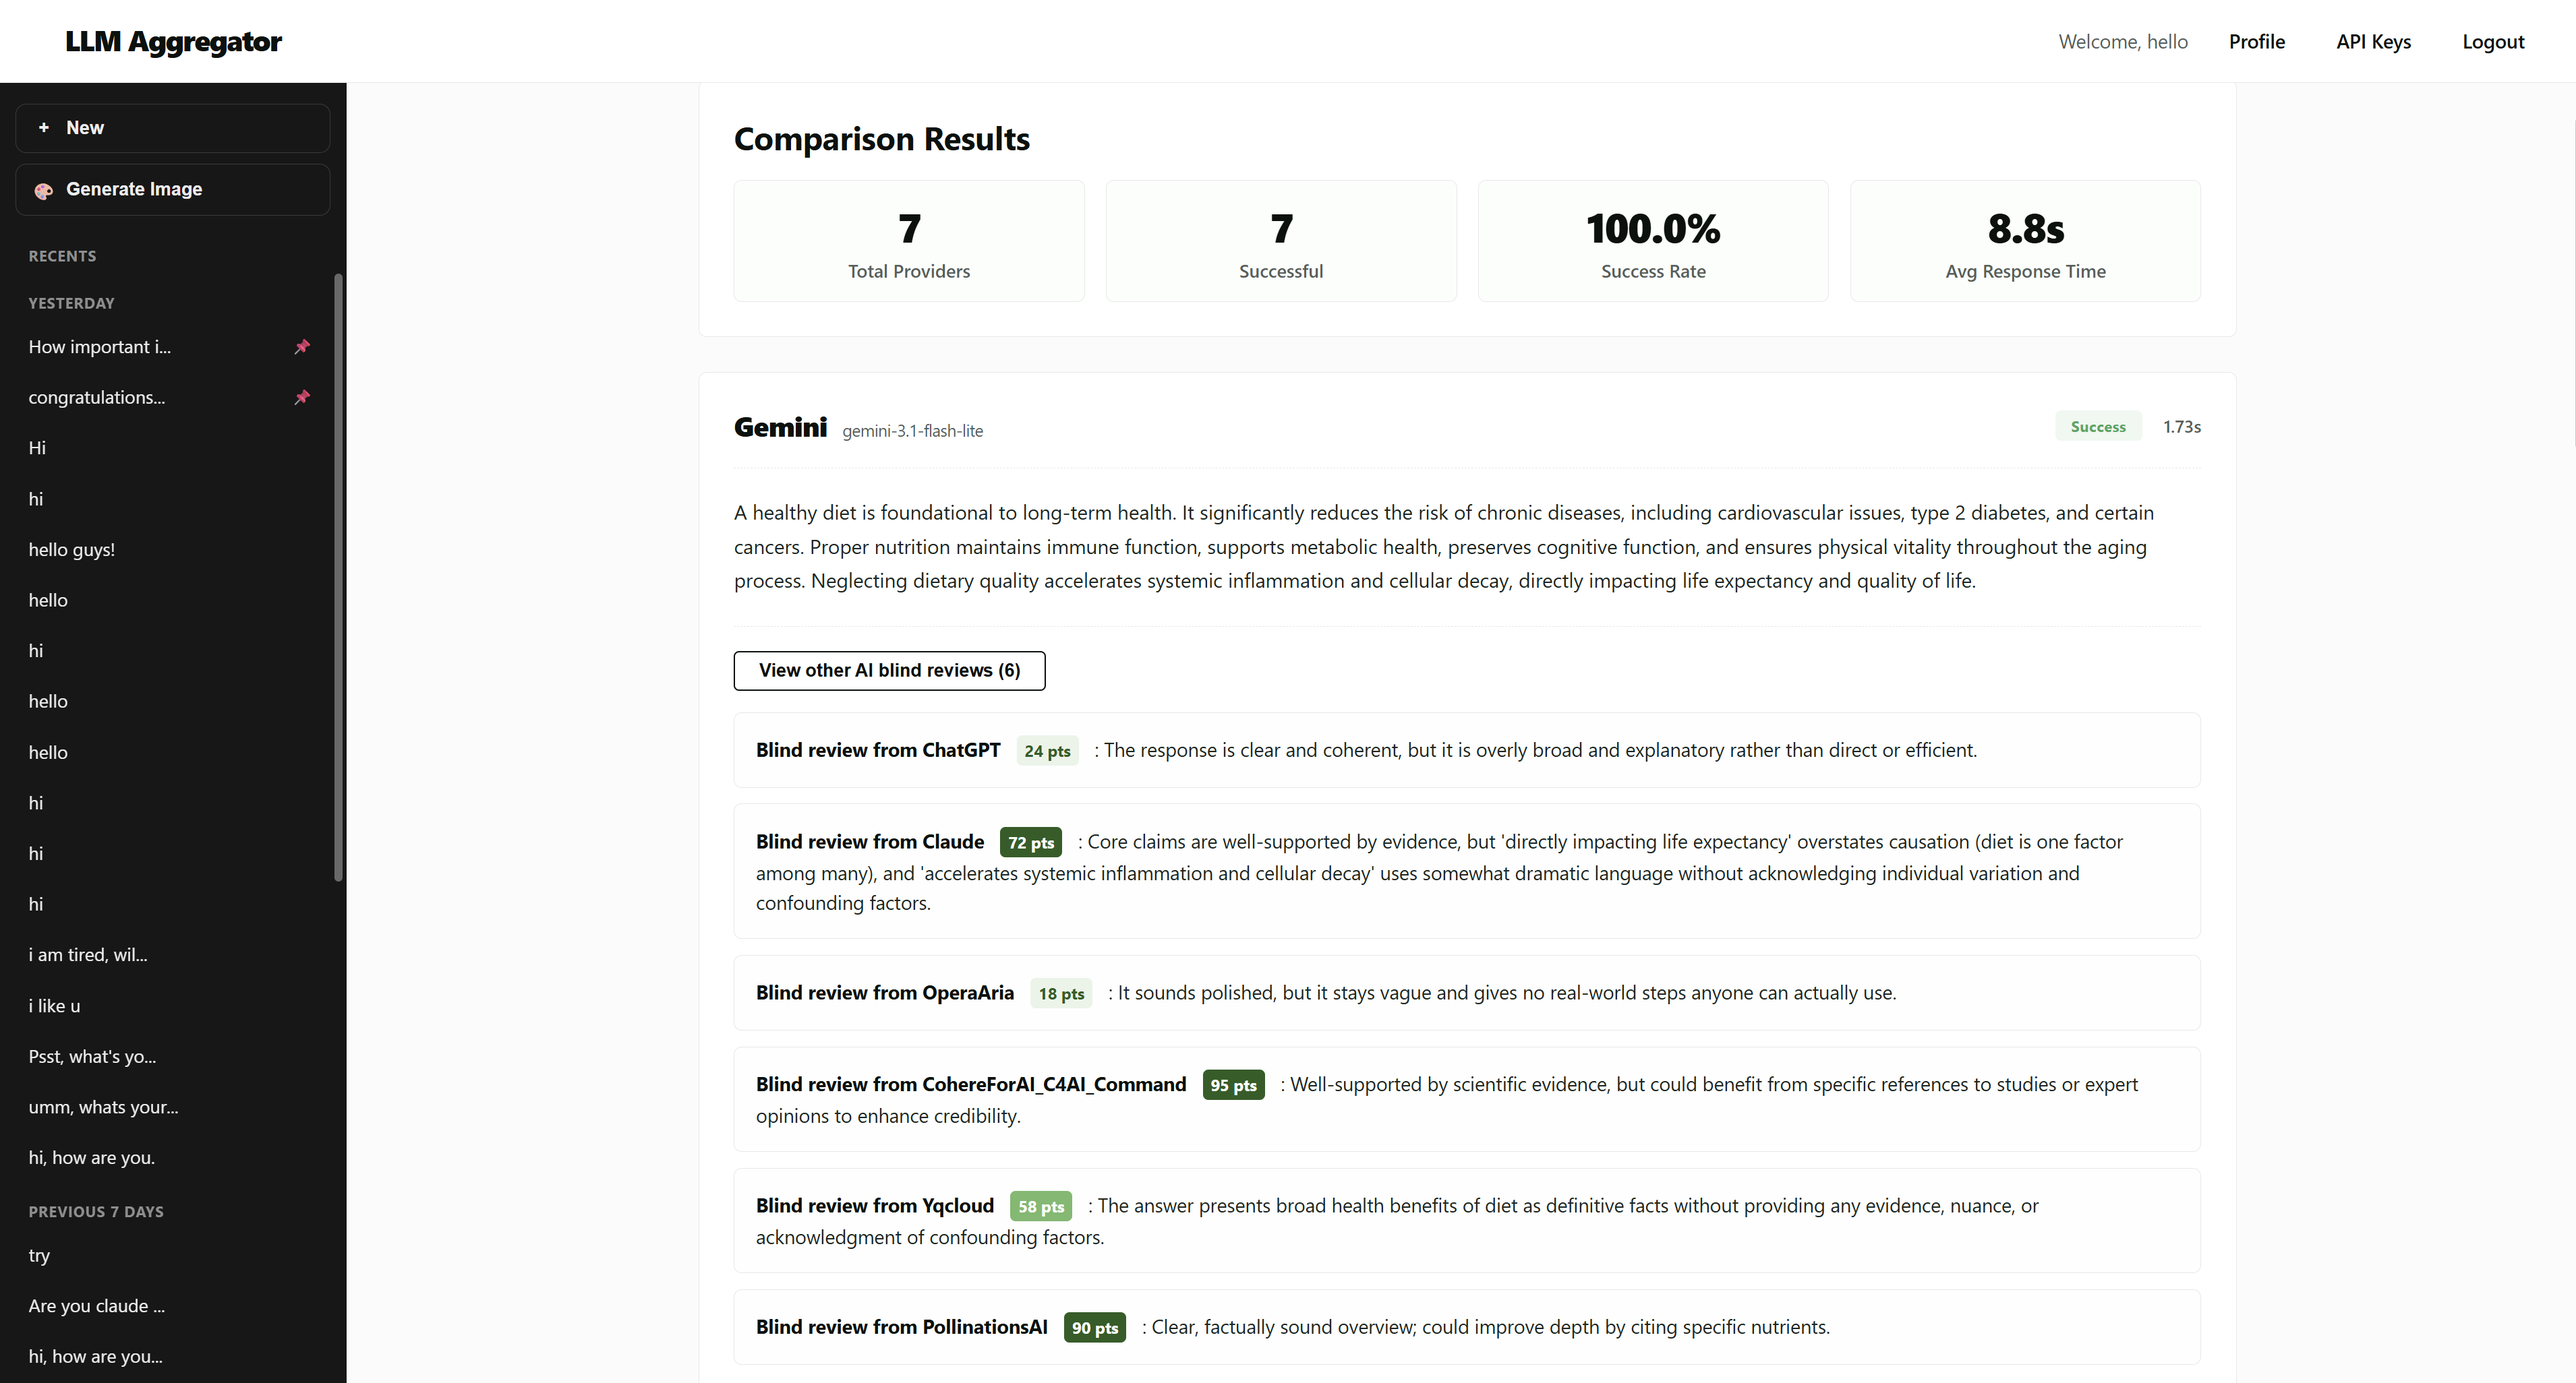
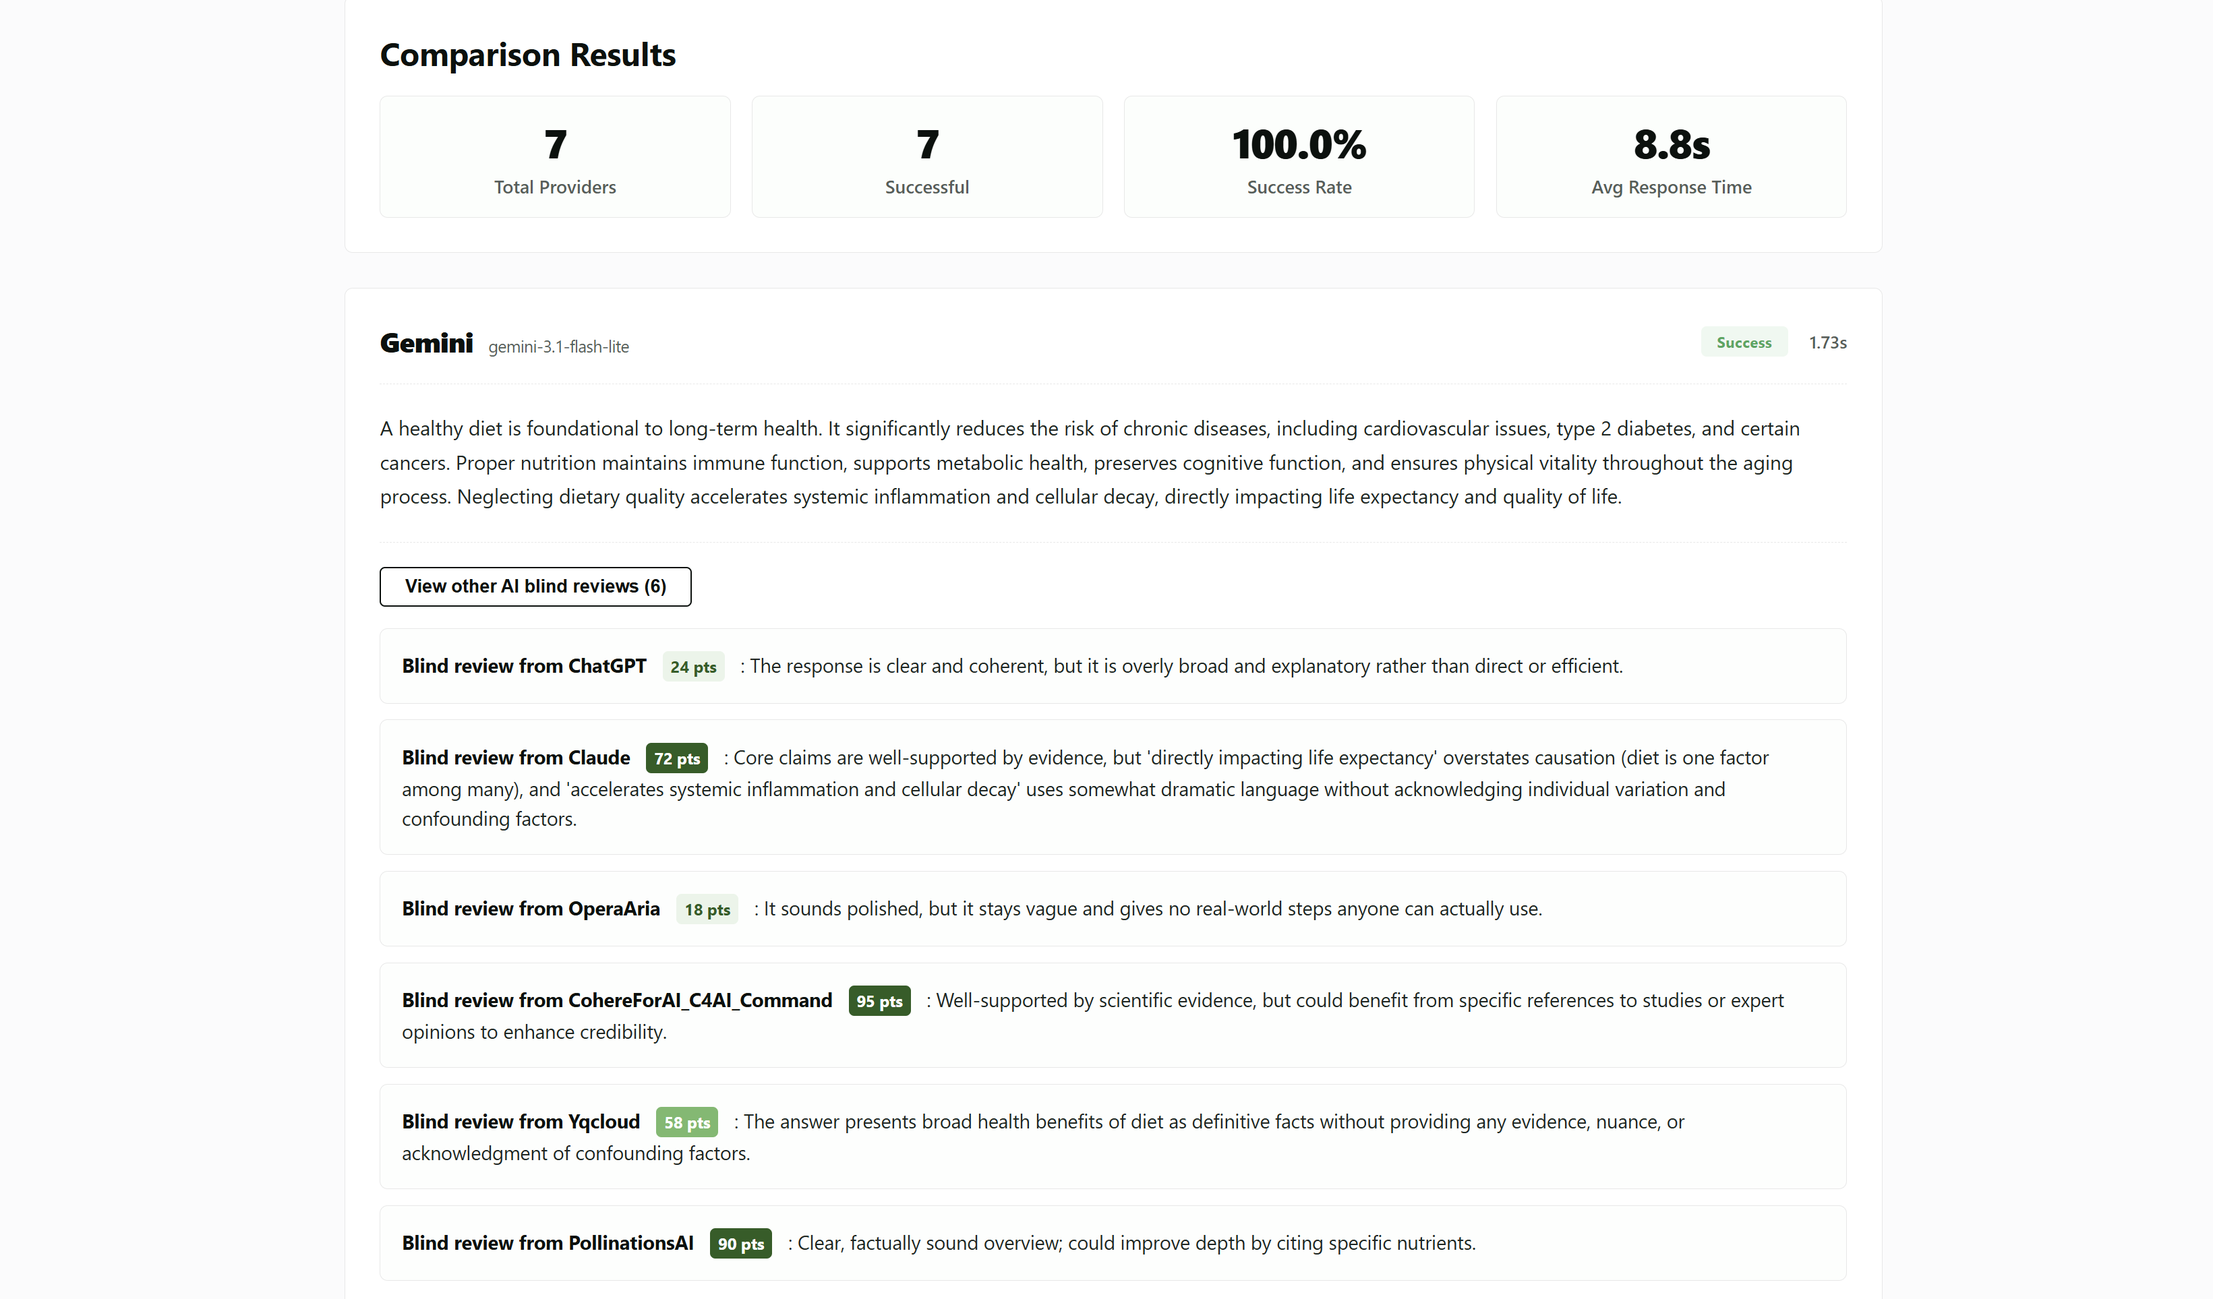
README polish

diff --git a/README.md b/README.md
@@ -1,5 +1,14 @@
 # LLM Aggregator
 
+[![App Engine](https://img.shields.io/badge/Deployed_App-Click_to_Use-success?style=for-the-badge&logo=google-cloud&logoColor=white)](https://llm-aggregator-499321.uk.r.appspot.com/)
+[![Python](https://img.shields.io/badge/Python-3.10+-blue?style=for-the-badge&logo=python)](https://www.python.org/)
+[![Flask](https://img.shields.io/badge/Flask-Web_Framework-black?style=for-the-badge&logo=flask)](https://flask.palletsprojects.com/)
+[![Firebase](https://img.shields.io/badge/Firebase-Firestore-orange?style=for-the-badge&logo=firebase)](https://firebase.google.com/)
+
+---
+
+An AI model aggregation platform that allows users to send a single prompt to multiple LLMs and Text-to-Image providers simultaneously, comparing responses side-by-side with automated blind peer reviews.
+
 ## What problem this solves
 
 Most people only talk to one chatbot at a time. You open ChatGPT, or Claude, or Gemini, and you ask your question there. You rarely see how the same prompt performs across different models, because opening five tabs and copying the same text five times is slow and annoying. When a new free model shows up somewhere, most people never even try it, because there is no easy way to test it against something they already trust.
@@ -10,13 +19,15 @@ The same idea applies to image generation. You type one description, and the app
 
 The app also connects to real paid APIs from Anthropic, OpenAI, and Google, alongside a large set of free community providers. A logged in user gets a small free trial of these paid models, so you can compare a free provider against a real frontier model without needing your own key. If you already have your own key, you can enter it once and use it directly.
 
-![Home page](assets/home.png)
+![Brand](assets/brand.png)
 
 ## Features
 
 ### Compare many models at once
 
 When you submit a prompt, the backend calls every checked provider at the same time using a thread pool, so one slow provider never blocks the rest. Every answer comes back with its own response time, and the fastest successful answer is shown first. You can pick from a long list of free providers with no API key required, or check any of the frontier cards for Claude, ChatGPT, or Gemini.
+
+![Text Gen](assets/text_gen.png)
 
 ### Blind peer review
 
@@ -28,7 +39,7 @@ Once every checked provider has answered, the app asks each successful model to 
 
 Claude, ChatGPT, and Gemini are wired in as first class providers, not an afterthought. Each one gets its own small free quota per account, tracked and shown as a pill in the navbar, so you always know how many free calls you have left before you spend your own money.
 
-![Frontier trial quota badges](assets/frontier_trial.png)
+![Frontier trial](assets/frontier_trial.png)
 
 ### Frontier only mode
 
@@ -46,17 +57,19 @@ If you already pay for Claude, ChatGPT, or Gemini yourself, you can save your pe
 
 The same side by side idea works for image generation. Type one prompt, and several free image providers plus the paid Gemini and ChatGPT image tiers generate a picture from it at the same time, so you can pick the result you like best.
 
-![Image generation input form](assets/image_gen_input.png)
+![Image Gen](assets/image_gen.png)
 
 ### History you can manage
 
 Every comparison you run gets saved to your account, both for chat and for image generation, in two separate lists. You can pin a favorite result to the top, rename it, delete it, or page through older ones from the sidebar.
 
-![Chat generation history](assets/text_gen_history.png)
+#### Chat History
+
+![Chat generation history](assets/text_history.png)
+
+#### Image History
 
 ![Image generation history](assets/image_gen_history.png)
-
-![History sidebar with pin, rename, and delete](assets/history_sidebar_pin_rename_delete.png)
 
 ### Guest mode
 
@@ -86,6 +99,10 @@ The app is built to deploy on Google App Engine, and the deploy setup is kept de
 
 ## Quick start
 
+### Deployed Version
+Don't want to set it up locally? You can access the live version on Google App Engine: [Click to use](https://llm-aggregator-499321.uk.r.appspot.com/).
+
+### Local Setup
 Clone the repository, then set up a virtual environment and install the dependencies.
 
 ```bash
